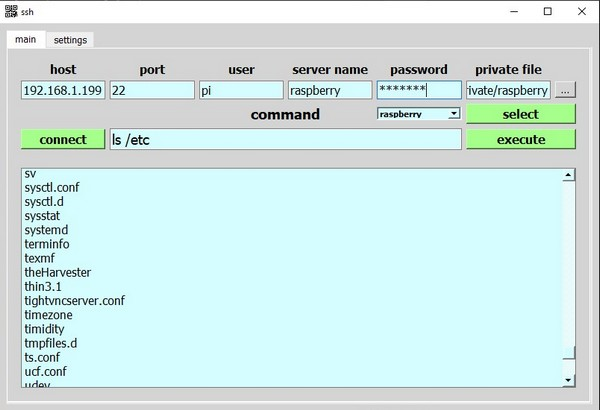
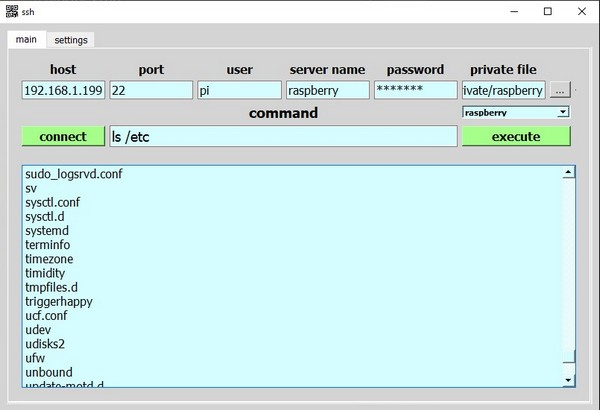
added timeout, is hided push button (select)

diff --git a/main.py b/main.py
@@ -21,30 +21,43 @@ def set_server_config() -> None:
             window.lineEdit_15.setText(host.private_file)  # private file
 
 
-def command_execute(command: str) -> None:
-    command = command if command else 'netstat -ntuop'
-    window.textBrowser.clear()
+def connect_to_server() -> any:
     host = Host(window.comboBox.currentIndex())
     for number in range(1, len(host.length) + 1):
         if window.comboBox.currentIndex() == number:
             path_file = Path(window.lineEdit_15.displayText()).absolute()
             client = paramiko.SSHClient()
             client.set_missing_host_key_policy(paramiko.AutoAddPolicy())
-            key = paramiko.RSAKey.from_private_key_file(filename=str(path_file),
-                                                        password=host.password)
+            key = paramiko.RSAKey.from_private_key_file(
+                filename=str(path_file),
+                password=host.password)
             client.connect(hostname=host.host, port=host.port,
-                           username=host.user, pkey=key)
-            stdin, stdout, stderr = client.exec_command(command)
-            output = stdout.readlines()
-            window.textBrowser.clear()
-            for line in output:
-                window.textBrowser.append(line.strip())
-            client.close()
+                           username=host.user, pkey=key, timeout=5)
+            return client
+
+
+def command_execute(command: str) -> None:
+    command = command if command else 'netstat -ntuop'
+    window.textBrowser.clear()
+    server = Host(window.comboBox.currentIndex()).host
+    try:
+        client = connect_to_server()
+        stdin, stdout, stderr = client.exec_command(command)
+        output = stdout.readlines()
+        window.textBrowser.clear()
+        for line in output:
+            window.textBrowser.append(line.strip())
+    except TimeoutError as e:
+        window.textBrowser.append(f'unable to connect to server: <h1>{server}'
+                                  f'</h1> (<font color="red">{e})</font>')
 
 
 def execute() -> None:
     command = window.lineEdit_6.displayText()
-    command_execute(command=command)
+    try:
+        command_execute(command=command)
+    except Exception as e:
+        print(e)
 
 
 def get_variables() -> tuple:
@@ -105,34 +118,30 @@ def connect() -> None:
     Host.connect(server_name=server_name, user=user, host=host, port=port)
 
 
-def select_from_path():
+def select_from_path() -> None:
     file_path = QtWidgets.QFileDialog.getOpenFileName(
-        window, 'Open file', '/home/')[0]
+        window, 'Select a private file', '/home/')[0]
     window.lineEdit_13.setText(file_path)
 
 
-def select_to_path():
+def select_to_path() -> None:
     path = QtWidgets.QFileDialog.getExistingDirectory(
-        window, 'Open folder', '/home/')
+        window, 'Select the destination folder', '/home/')
     window.lineEdit_14.setText(path)
 
 
-def select_private_file_path():
+def select_private_file_path() -> None:
     file_path = QtWidgets.QFileDialog.getOpenFileName(
-        window, 'Open file', '/home/')[0]
+        window, 'Select a private file', '/home/')[0]
     window.lineEdit_15.setText(file_path)
 
 
-if __name__ == "__main__":
-    app = QtWidgets.QApplication([])
-    window = uic.loadUi("ssh.ui")
+def functional():
+    global window, config, app
     window.comboBox.addItems(Host(1).length)
     window.pushButton_8.clicked.connect(set_server_config)  # select
     window.pushButton_7.clicked.connect(connect)
     window.pushButton.clicked.connect(execute)  # execute command
-    variable = get_variables()
-    config = ConfigHost(server=variable[0], port=variable[1],
-                        user=variable[2], password=variable[3])
     window.toolButton.clicked.connect(select_from_path)
     window.toolButton_2.clicked.connect(select_to_path)
     window.toolButton_3.clicked.connect(select_private_file_path)
@@ -143,6 +152,18 @@ if __name__ == "__main__":
     window.pushButton_5.clicked.connect(move_and_change)  # move
     window.pushButton_4.clicked.connect(config.restore_config)  # restore
     window.pushButton_6.clicked.connect(config.service_config_reload)  # config reload
-    app.setWindowIcon(QIcon('images/favicon.ico'))
     window.show()
+    app.setWindowIcon(QIcon('images/favicon.ico'))
     app.exec_()
+
+
+if __name__ == "__main__":
+    app = QtWidgets.QApplication([])
+    window = uic.loadUi("ssh.ui")
+    variable = get_variables()
+    config = ConfigHost(server=variable[0], port=variable[1],
+                        user=variable[2], password=variable[3])
+    try:
+        functional()
+    except Exception:
+        pass

diff --git a/README.md b/README.md
@@ -1,4 +1,4 @@
-## (!Linux) ssh remote connection
+## ssh remote connection
 ![preview](images/img-001.jpg)
-## changing ssh service files
+## (!Linux) changing ssh service files
 ![preview](images/img-002.jpg)
